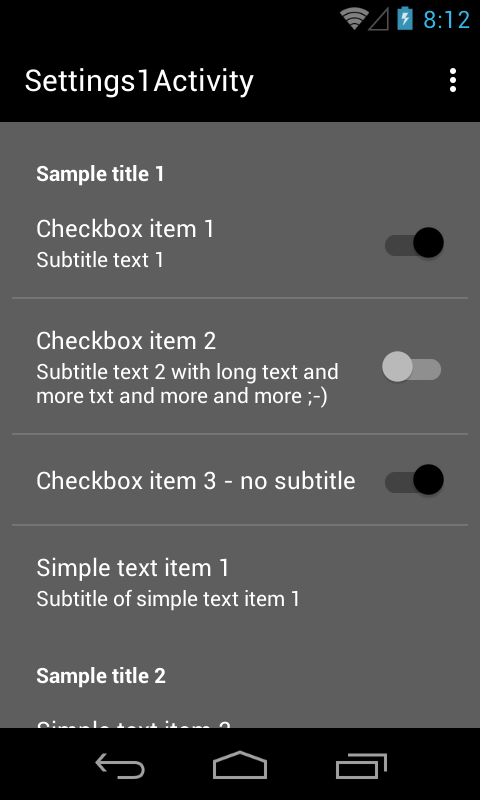
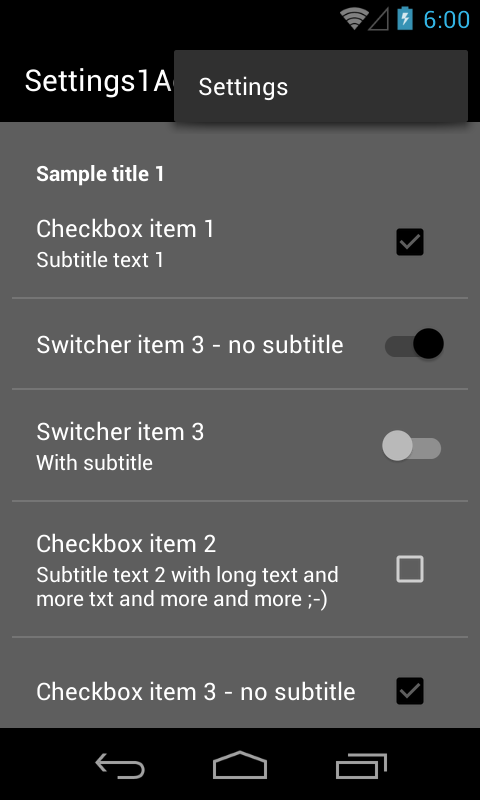
Add SwitcherItem type. Update SimpleStorageInterface. Update sample app.

diff --git a/library/src/main/java/com/kenumir/materialsettings/storage/SimpleStorageInterface.java b/library/src/main/java/com/kenumir/materialsettings/storage/SimpleStorageInterface.java
@@ -27,42 +27,50 @@ public class SimpleStorageInterface extends StorageInterface {
 
 	@Override
 	public void save(String key, String value) {
-
+		mem.put(key, String.valueOf(value));
 	}
 
 	@Override
 	public String load(String key, String defaultValue) {
-		return null;
+		if (mem.containsKey(key))
+			return (String) mem.get(key);
+		return defaultValue;
 	}
 
 	@Override
 	public void save(String key, Integer value) {
-
+		mem.put(key, Integer.valueOf(value));
 	}
 
 	@Override
 	public Integer load(String key, Integer defaultValue) {
-		return null;
+		if (mem.containsKey(key))
+			return (Integer) mem.get(key);
+		return defaultValue;
 	}
 
 	@Override
 	public void save(String key, Float value) {
-
+		mem.put(key, Float.valueOf(value));
 	}
 
 	@Override
 	public Float load(String key, Float defaultValue) {
-		return null;
+		if (mem.containsKey(key))
+			return (Float) mem.get(key);
+		return defaultValue;
 	}
 
 	@Override
 	public void save(String key, Long value) {
-
+		mem.put(key, Long.valueOf(value));
 	}
 
 	@Override
 	public Long load(String key, Long defaultValue) {
-		return null;
+		if (mem.containsKey(key))
+			return (Long) mem.get(key);
+		return defaultValue;
 	}
 
 }

diff --git a/sampleapp/src/main/java/com/wt/sampleapp/Settings1Activity.java b/sampleapp/src/main/java/com/wt/sampleapp/Settings1Activity.java
@@ -18,6 +18,7 @@ import com.kenumir.materialsettings.MaterialSettings;
 import com.kenumir.materialsettings.items.CheckboxItem;
 import com.kenumir.materialsettings.items.DividerItem;
 import com.kenumir.materialsettings.items.HeaderItem;
+import com.kenumir.materialsettings.items.SwitcherItem;
 import com.kenumir.materialsettings.items.TextItem;
 import com.kenumir.materialsettings.storage.PreferencesStorageInterface;
 import com.kenumir.materialsettings.storage.SimpleStorageInterface;
@@ -36,6 +37,10 @@ public class Settings1Activity extends MaterialSettings implements SampleDialog.
 				Toast.makeText(Settings1Activity.this, "CHECKED: " + isChecked, Toast.LENGTH_SHORT).show();
 			}
 		}));
+		addItem(new DividerItem(this));
+		addItem(new SwitcherItem(this, "key1a").setTitle("Switcher item 3 - no subtitle"));
+		addItem(new DividerItem(this));
+		addItem(new SwitcherItem(this, "key1b").setTitle("Switcher item 3").setSubtitle("With subtitle"));
 		addItem(new DividerItem(this));
 		addItem(new CheckboxItem(this, "key2").setTitle("Checkbox item 2").setSubtitle("Subtitle text 2 with long text and more txt and more and more ;-)").setDefaultValue(true));
 		addItem(new DividerItem(this));

diff --git a/library/src/main/java/com/kenumir/materialsettings/items/SwitcherItem.java b/library/src/main/java/com/kenumir/materialsettings/items/SwitcherItem.java
@@ -1,0 +1,20 @@
+package com.kenumir.materialsettings.items;
+
+import com.kenumir.materialsettings.MaterialSettings;
+import com.kenumir.materialsettings.R;
+
+/**
+ * Created by Kenumir on 2015-03-20.
+ */
+public class SwitcherItem extends CheckboxItem {
+
+	public SwitcherItem(MaterialSettings ctx, String name) {
+		super(ctx, name);
+	}
+
+	@Override
+	public int getViewResource() {
+		return R.layout.item_switcher;
+	}
+
+}

diff --git a/README.md b/README.md
@@ -48,6 +48,13 @@ public class Settings1Activity extends MaterialSettings {
 </style>
 ```
 
+### StorageInterface
+Easiest way to save/load settings
+
+* PreferencesStorageInterface - in shared preferences
+* SimpleStorageInterface - in memory
+* or write own interface to save data (sqlite, content provider or to file)
+
 # Screens
 ![Default](/screens/theme_default.png)
 ![Rec](/screens/theme_red.png)
